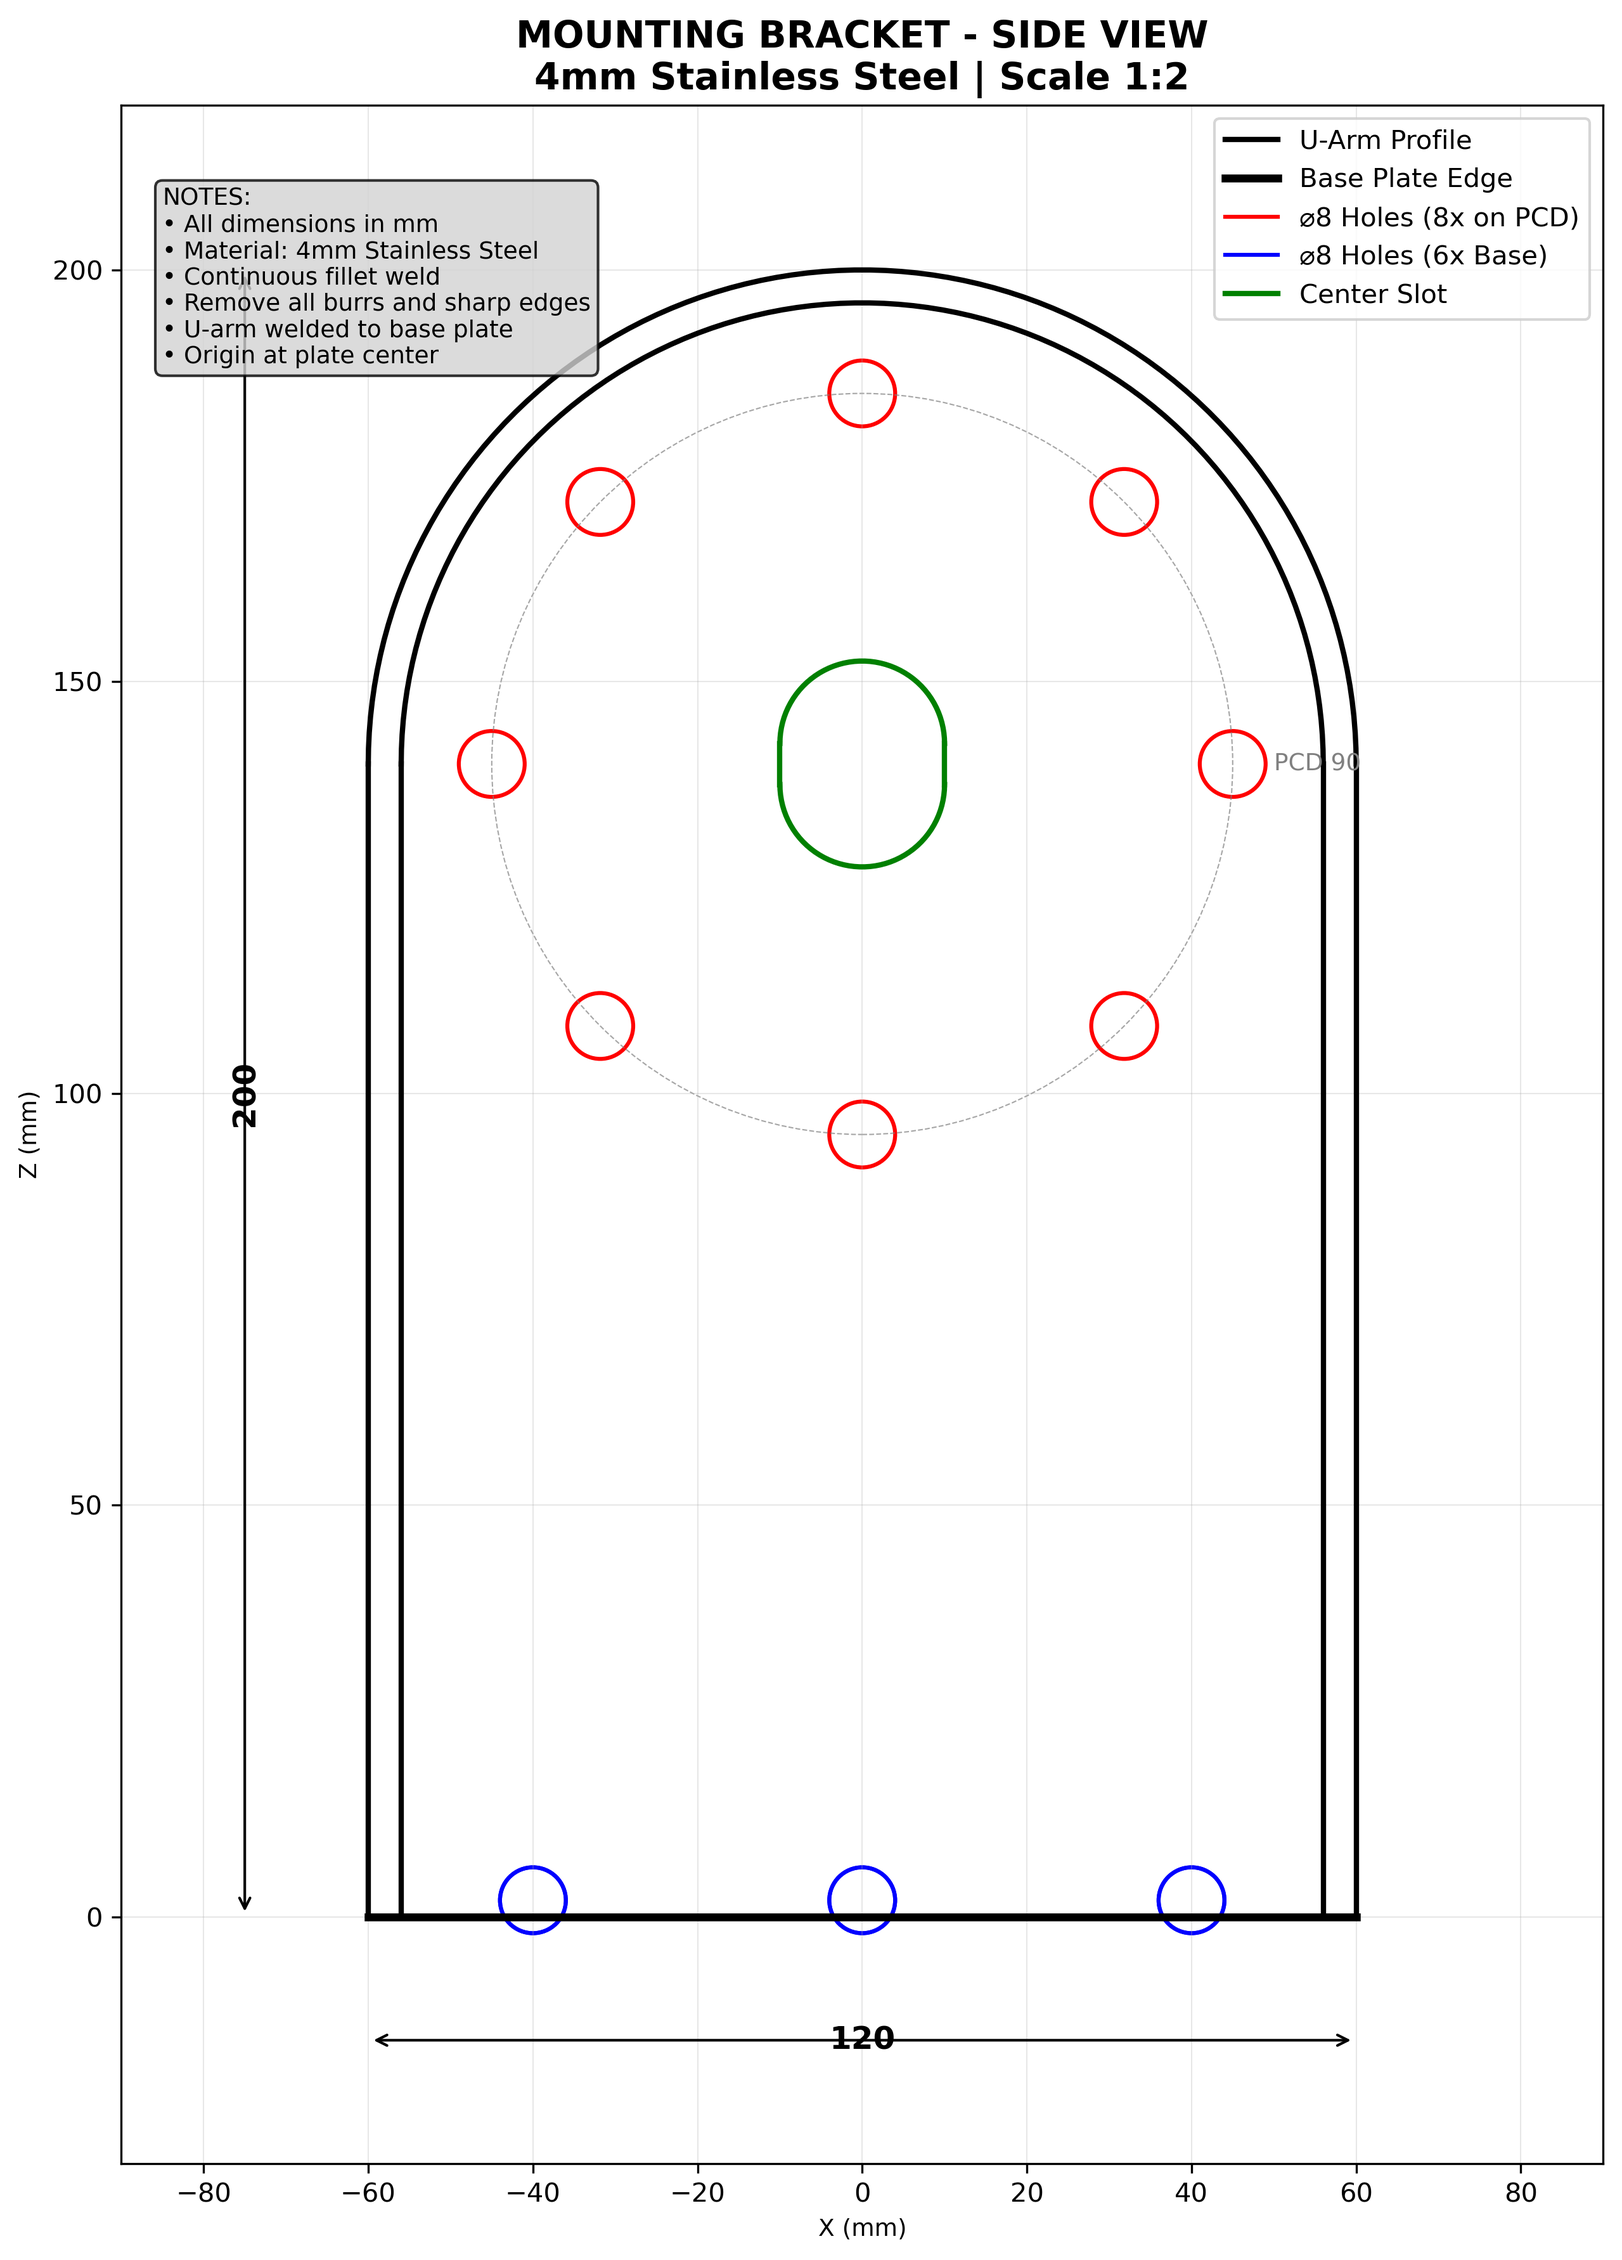
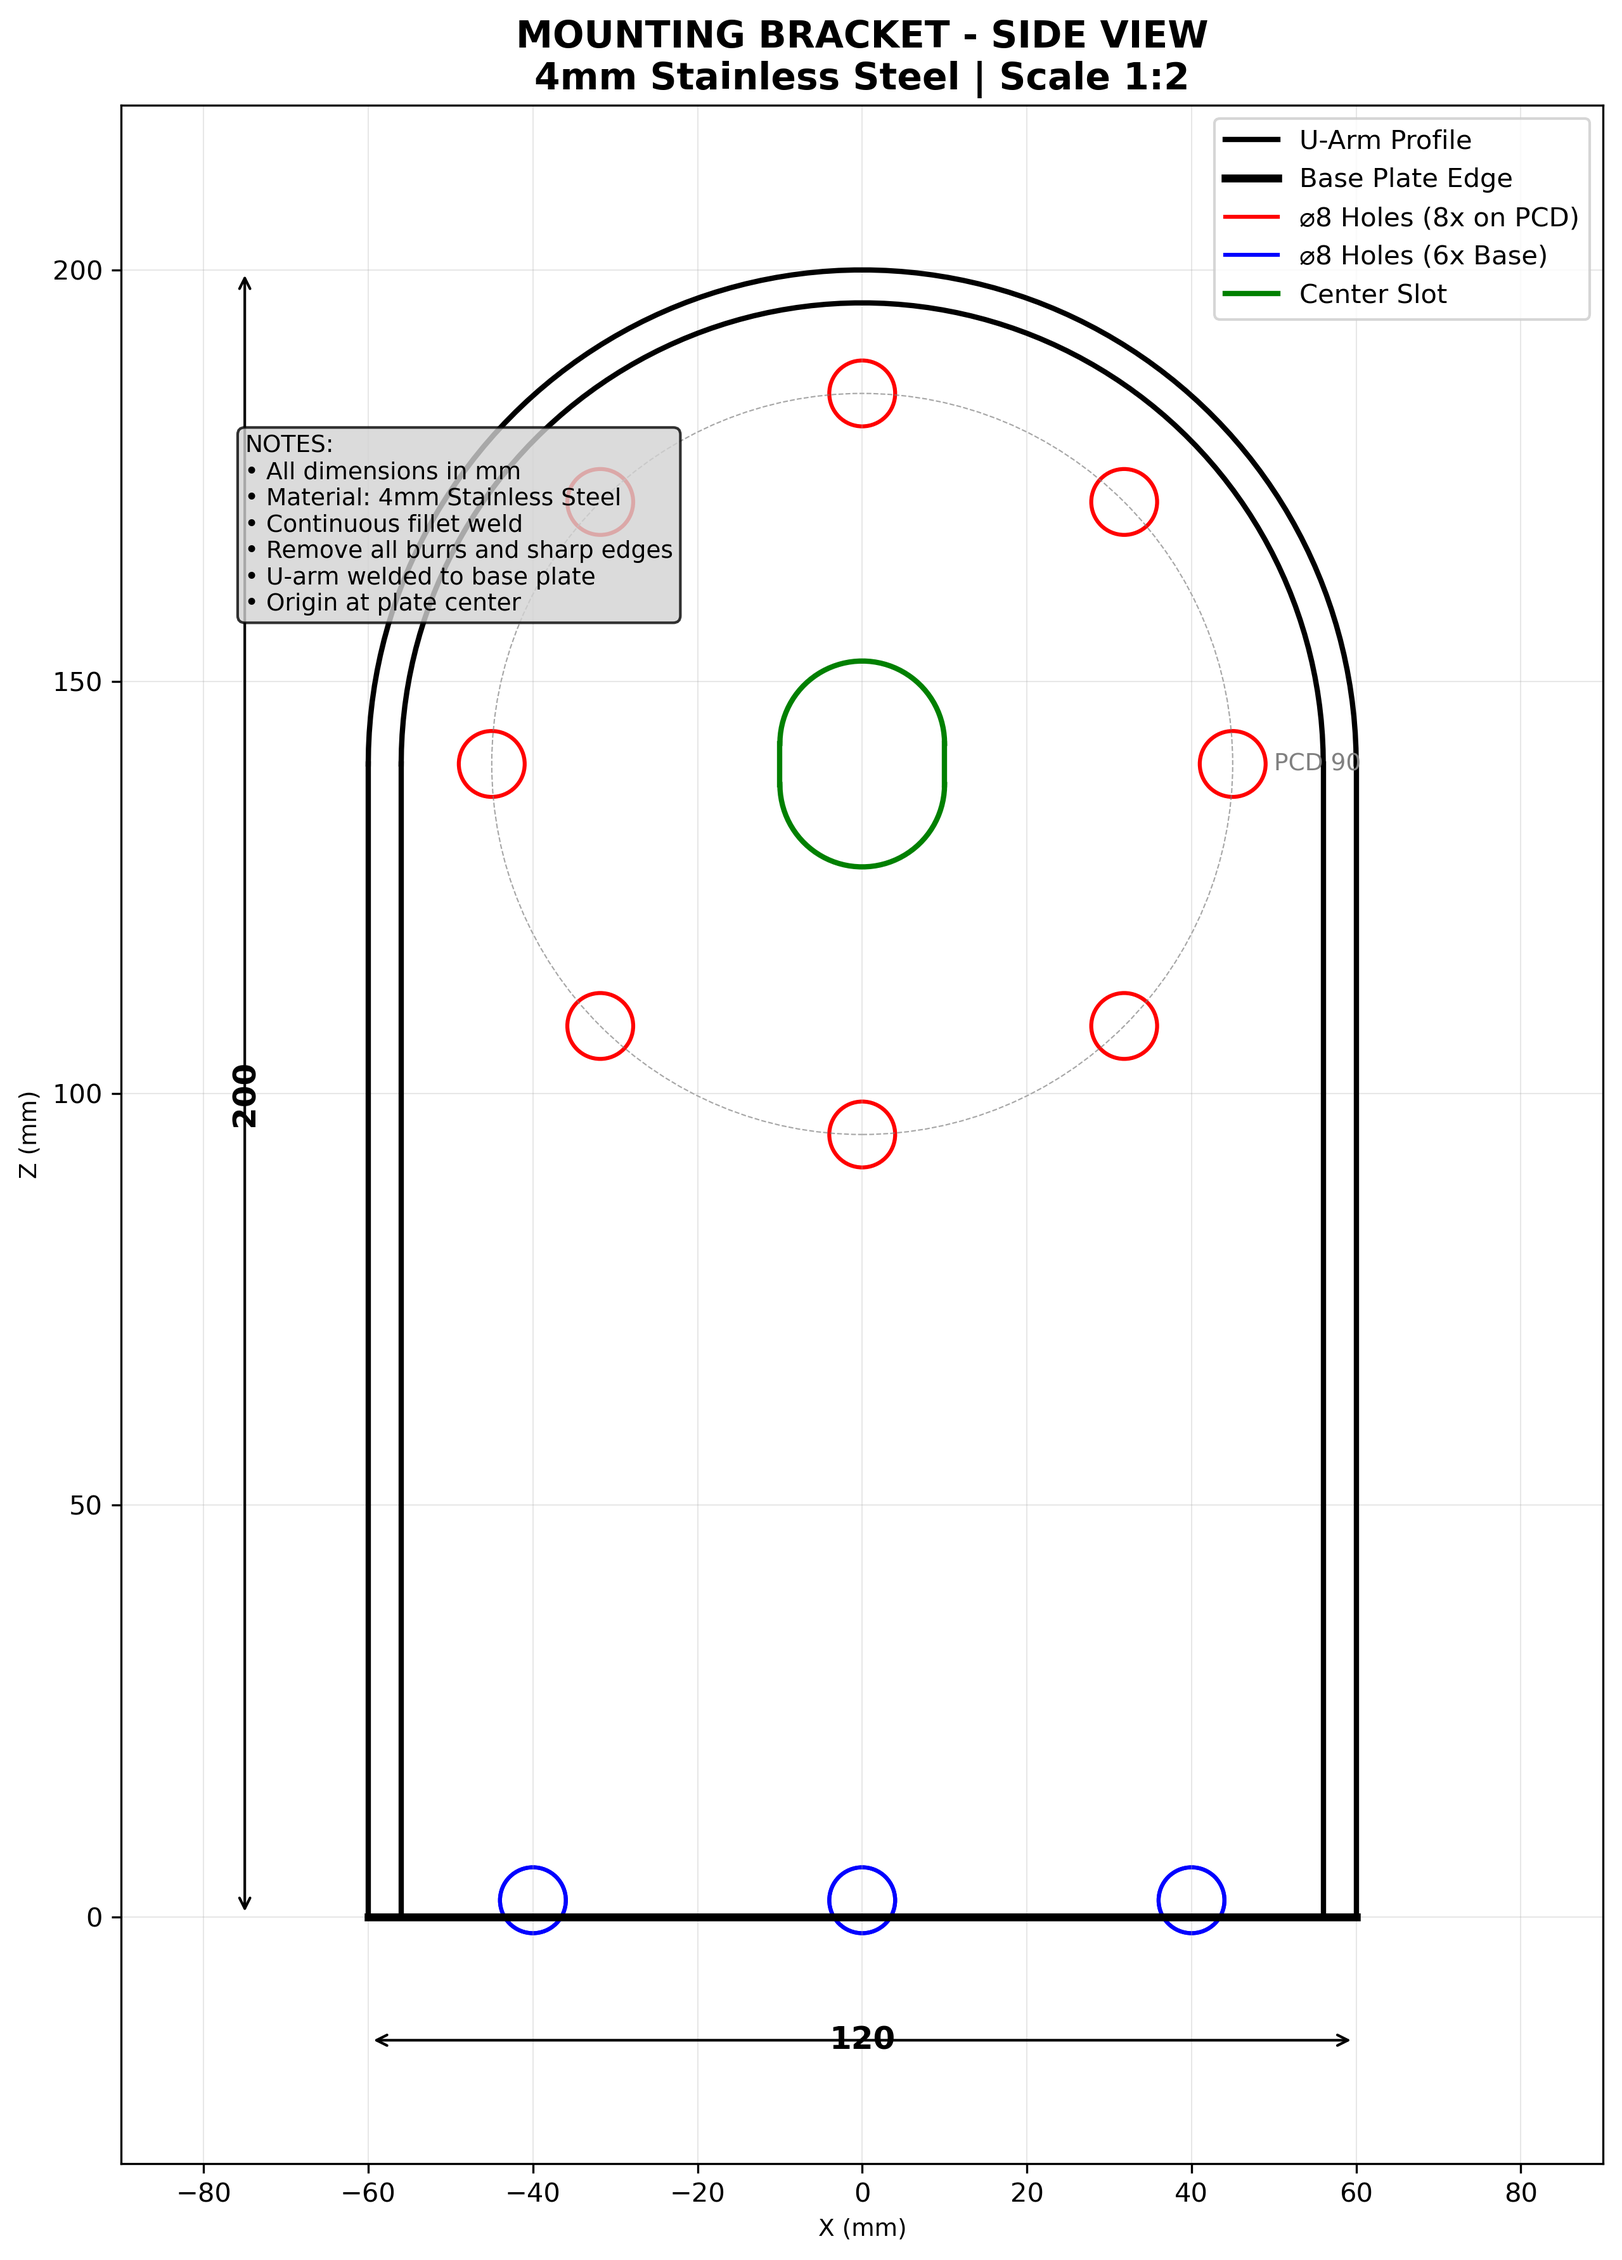
Update NOTES positioning in side view
- Side view NOTES moved from (-85, 210) to (-75, 180)
- Improved positioning to avoid potential overlaps
- Regenerated all PNG and SVG files to reflect changes
- Better visual layout achieved

Changed region(s): [[0.0926, 0.0623, 0.4322, 0.2802]]

diff --git a/src/drawing_engine.py b/src/drawing_engine.py
@@ -155,7 +155,7 @@ class DrawingEngine:
             'U-arm welded to base plate',
             'Origin at plate center'
         ]
-        self.utils.add_comprehensive_notes(ax, mb_specs.MATERIAL, (-85, 210), manufacturing_details)
+        self.utils.add_comprehensive_notes(ax, mb_specs.MATERIAL, (-75, 180), manufacturing_details)
         
         plt.tight_layout()
         self._save_drawing(fig, 'mounting_bracket_side_view')
